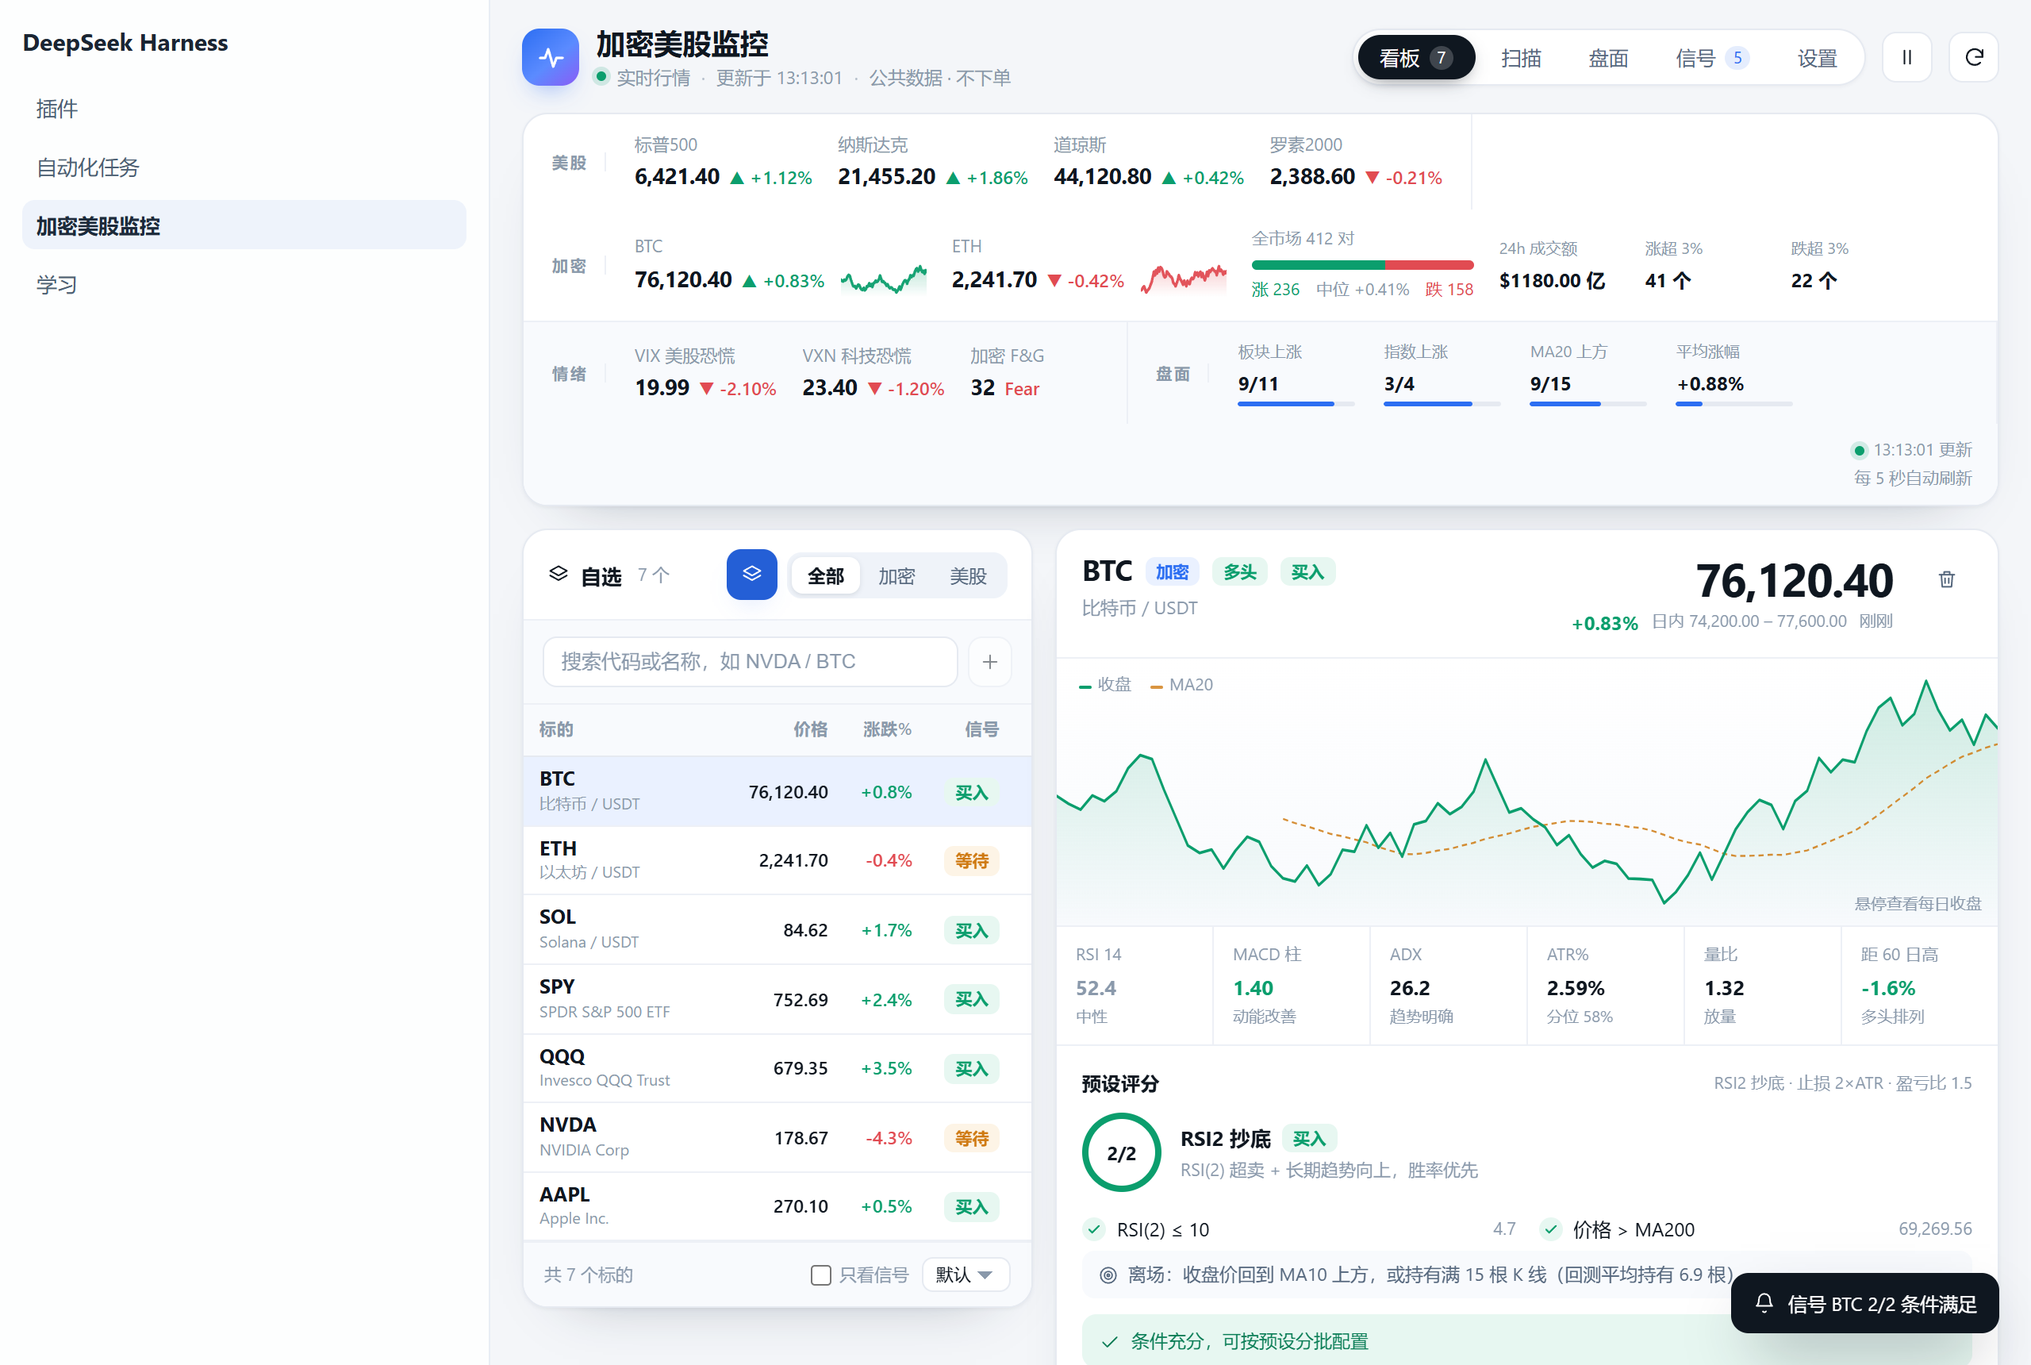
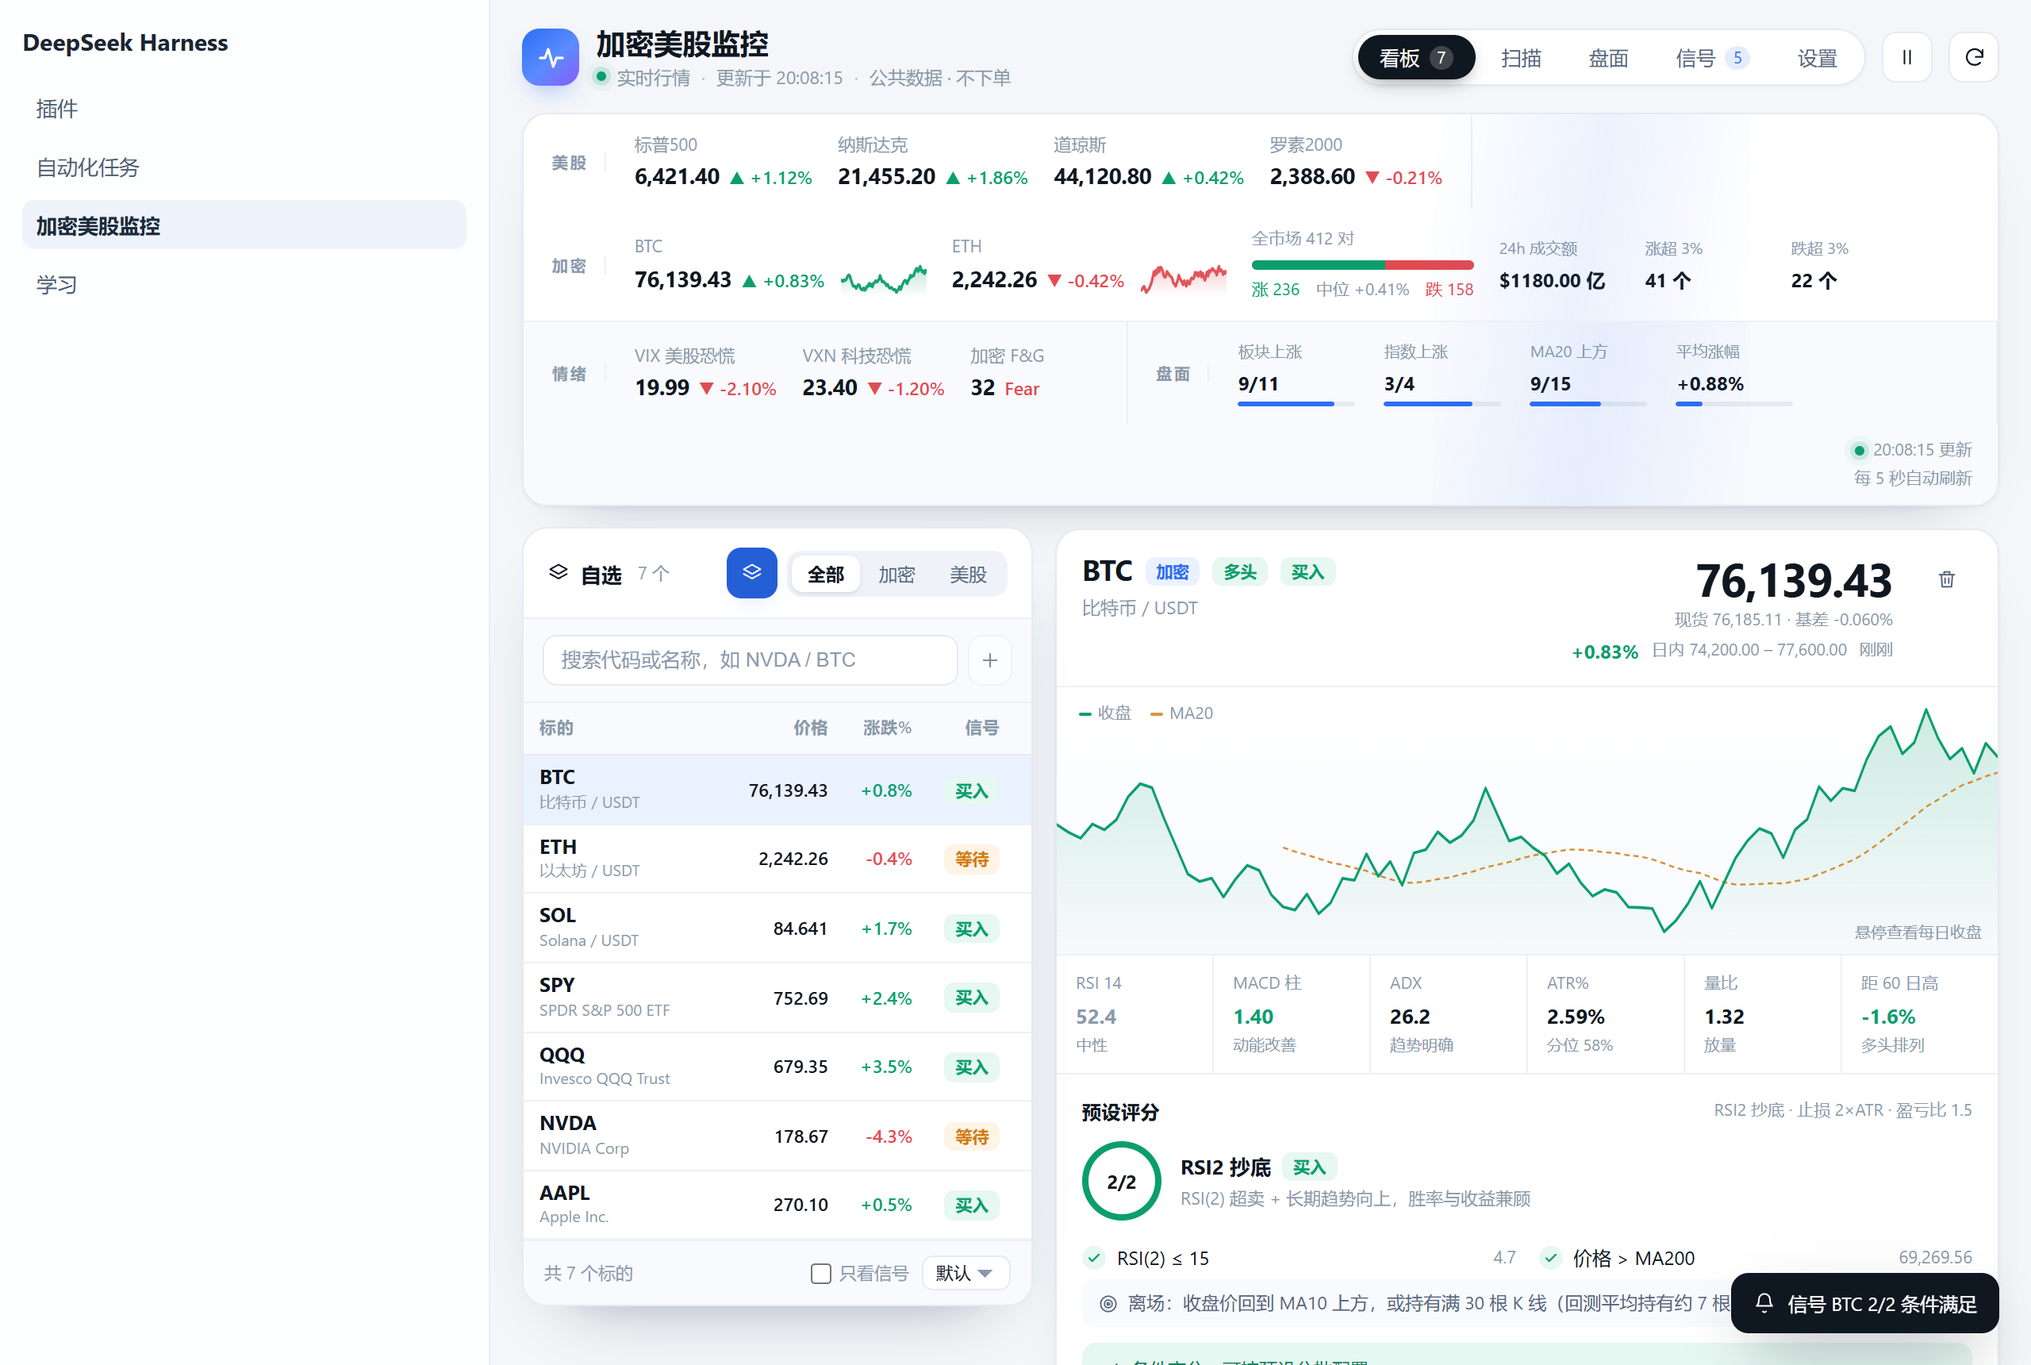
feat: 0.21.0 加密主显合约价并附现货价与基差，界面加价格闪动/脉冲/扫光动效

diff --git a/lib/client.js b/lib/client.js
@@ -919,6 +919,35 @@ window.__ModuleLoader__.load({
 			".mn-root[data-theme=dark] .mn-table tbody tr{background:var(--mn-card)}",
 			".mn-scan-warn{display:flex;align-items:center;gap:6px;margin:0 15px 10px;padding:6px 10px;border-radius:8px;background:var(--mn-warn-soft);color:#a05f0c;font-size:11px}",
 			".mn-exit-rule{display:flex;align-items:center;gap:6px;margin:2px 0 8px;padding:7px 10px;border-radius:8px;background:var(--mn-card-2);color:var(--mn-fg-2);font-size:11.5px;line-height:1.4}",
+			"/* ---------- 0.21 motion ---------- */",
+			"@keyframes mn-flash-up{0%{background:rgba(11,158,109,.26);box-shadow:inset 0 0 0 1px rgba(11,158,109,.4)}100%{background:transparent;box-shadow:inset 0 0 0 1px transparent}}",
+			"@keyframes mn-flash-down{0%{background:rgba(225,75,82,.26);box-shadow:inset 0 0 0 1px rgba(225,75,82,.4)}100%{background:transparent;box-shadow:inset 0 0 0 1px transparent}}",
+			"[data-flash=up]{animation:mn-flash-up .72s ease-out;border-radius:5px}",
+			"[data-flash=down]{animation:mn-flash-down .72s ease-out;border-radius:5px}",
+			".mn-wl-price{display:flex;flex-direction:column;align-items:flex-end;gap:1px;padding:1px 4px;margin:-1px -4px}",
+			".mn-wl-price b{font-weight:650;line-height:1.2}",
+			".mn-wl-spot{font-size:9.5px;font-weight:500;color:var(--mn-fg-3);letter-spacing:0;white-space:nowrap}",
+			".mn-price-spot{font-size:10.5px;color:var(--mn-fg-3);font-variant-numeric:tabular-nums}",
+			".mn-spark-line{animation:mn-draw 1.1s ease-out both}",
+			"@keyframes mn-draw{from{stroke-dasharray:1;stroke-dashoffset:1}to{stroke-dasharray:1;stroke-dashoffset:0}}",
+			".mn-dot{position:relative;color:var(--mn-up)}",
+			".mn-dot[data-state=warn]{color:var(--mn-warn)}",
+			".mn-dot[data-state=down]{color:var(--mn-down)}",
+			".mn-dot:after{content:\"\";position:absolute;left:50%;top:50%;width:6px;height:6px;margin:-3px 0 0 -3px;border-radius:50%;background:currentColor;opacity:0;animation:mn-ripple 2.6s ease-out infinite;pointer-events:none}",
+			"@keyframes mn-ripple{0%{transform:scale(1);opacity:.45}70%{transform:scale(3.4);opacity:0}100%{opacity:0}}",
+			".mn-card{transition:box-shadow .24s ease,transform .24s ease}",
+			".mn-card:hover{box-shadow:0 20px 44px -30px rgba(15,30,55,.55);transform:translateY(-1px)}",
+			".mn-tk-row{position:relative;overflow:hidden}",
+			".mn-tk-row:after{content:\"\";position:absolute;top:0;bottom:0;width:200px;left:-220px;pointer-events:none;background:linear-gradient(100deg,transparent,rgba(44,110,242,.09),transparent);animation:mn-sweep 9s linear infinite}",
+			"@keyframes mn-sweep{0%{transform:translateX(0)}100%{transform:translateX(1800px)}}",
+			".mn-heat-tile{transition:transform .18s ease,filter .18s ease}",
+			".mn-heat-tile:hover{transform:translateY(-2px) scale(1.015);filter:saturate(1.12)}",
+			".mn-score{transition:background .35s ease,transform .2s ease}",
+			".mn-score:hover{transform:scale(1.04)}",
+			".mn-chip[data-tone=buy]{animation:mn-chip-pulse 2.8s ease-in-out infinite}",
+			"@keyframes mn-chip-pulse{0%,100%{box-shadow:0 0 0 0 rgba(11,158,109,0)}50%{box-shadow:0 0 0 4px rgba(11,158,109,.14)}}",
+			".mn-loading{animation:mn-fade .4s ease both}",
+			"@media (prefers-reduced-motion:reduce){.mn-tk-row:after,.mn-dot:after,.mn-spark-line,.mn-chip[data-tone=buy]{animation:none!important}[data-flash=up],[data-flash=down]{animation:none!important}.mn-card{transition:none}}",
 		].join("\n");
 
 
@@ -931,6 +960,24 @@ window.__ModuleLoader__.load({
 			const useMemo = React.useMemo;
 			const useRef = React.useRef;
 			const useCallback = React.useCallback;
+
+			// 0.21: flash a price element whenever a poll brings a new value.
+			function usePriceFlash(value) {
+				const previous = useRef(null);
+				const [flash, setFlash] = useState("");
+				useEffect(() => {
+					const numeric = Number(value);
+					if (previous.current !== null && Number.isFinite(numeric) && numeric !== previous.current) {
+						setFlash(numeric > previous.current ? "up" : "down");
+						previous.current = numeric;
+						const timer = setTimeout(() => setFlash(""), 720);
+						return () => clearTimeout(timer);
+					}
+					previous.current = Number.isFinite(numeric) ? numeric : null;
+					return undefined;
+				}, [value]);
+				return flash;
+			}
 
 			function cx() {
 				const out = [];
@@ -1034,7 +1081,7 @@ window.__ModuleLoader__.load({
 							h("stop", { offset: "0%", stopColor: color, stopOpacity: "0.28" }),
 							h("stop", { offset: "100%", stopColor: color, stopOpacity: "0" }))),
 					h("path", { d: area, fill: "url(#" + idRef.current + ")", stroke: "none" }),
-					h("path", { d: line, fill: "none", stroke: color, strokeWidth: props.strokeWidth || 1.4, strokeLinejoin: "round", strokeLinecap: "round" })
+					h("path", { className: "mn-spark-line", d: line, fill: "none", stroke: color, strokeWidth: props.strokeWidth || 1.4, strokeLinejoin: "round", strokeLinecap: "round", pathLength: "1" })
 				);
 			}
 
@@ -1121,10 +1168,11 @@ window.__ModuleLoader__.load({
 
 			function TickerCell(props) {
 				const tone = changeTone(props.change);
+				const flash = usePriceFlash(props.raw);
 				return h("div", { className: "mn-tk", title: props.title || "" },
 					h("span", { className: "mn-tk-name" }, props.name),
 					h("span", { className: "mn-tk-line" },
-						h("b", { className: "mn-tk-price" }, props.price),
+						h("b", { className: "mn-tk-price", "data-flash": flash || undefined }, props.price),
 						Number.isFinite(Number(props.change))
 							? h("span", { className: "mn-tk-chg " + (tone === "up" ? "mn-up" : tone === "down" ? "mn-down" : "mn-flat") },
 								(tone === "up" ? "▲ " : tone === "down" ? "▼ " : "") + formatPct(props.change, 2))
@@ -1165,6 +1213,7 @@ window.__ModuleLoader__.load({
 									key: row.symbol,
 									name: row.name || row.symbol,
 									price: formatPrice(row.price),
+									raw: row.price,
 									change: row.changePct,
 									title: (row.name || row.symbol) + " · " + (row.aboveMa20 ? "MA20 上方" : "MA20 下方")
 								}))
@@ -1174,6 +1223,7 @@ window.__ModuleLoader__.load({
 							h(TickerCell, {
 								name: "BTC",
 								price: btc ? formatPrice(btc.price) : "--",
+								raw: btc ? btc.price : null,
 								change: btcChange,
 								spark: closesOf("crypto:BTCUSDT"),
 								title: "比特币 / USDT"
@@ -1181,6 +1231,7 @@ window.__ModuleLoader__.load({
 							h(TickerCell, {
 								name: "ETH",
 								price: eth ? formatPrice(eth.price) : "--",
+								raw: eth ? eth.price : null,
 								change: ethChange,
 								spark: closesOf("crypto:ETHUSDT"),
 								title: "以太坊 / USDT"
@@ -1243,6 +1294,7 @@ window.__ModuleLoader__.load({
 			function WatchRow(props) {
 				const row = props.row;
 				const tone = changeTone(row.change);
+				const flash = usePriceFlash(row.price);
 				return h("div", {
 					className: "mn-wl-row",
 					"data-active": props.active ? "true" : "false",
@@ -1271,7 +1323,11 @@ window.__ModuleLoader__.load({
 					props.spark && props.spark.length > 1
 						? h(Sparkline, { points: props.spark, className: "mn-wl-spark", width: 44, height: 18, tone: tone })
 						: null,
-					h("span", { className: "mn-wl-price" }, formatPrice(row.price)),
+					h("span", { className: "mn-wl-price", "data-flash": flash || undefined },
+						h("b", null, formatPrice(row.price)),
+						row.spotPrice && Number.isFinite(Number(row.spotPrice))
+							? h("small", { className: "mn-wl-spot", title: "现货价 · Binance" }, "现货 " + formatPrice(row.spotPrice))
+							: null),
 					h("span", { className: "mn-wl-chg " + (tone === "up" ? "mn-up" : tone === "down" ? "mn-down" : "mn-flat") }, formatPct(row.change, 2)),
 					h("button", {
 						type: "button",
@@ -1459,6 +1515,7 @@ window.__ModuleLoader__.load({
 				const [targetNote, setTargetNote] = useState("");
 				const [direction, setDirection] = useState("above");
 				const [showAll, setShowAll] = useState(false);
+				const priceFlash = usePriceFlash(row ? row.price : null);
 				const target = props.target || null;
 				const targetKey = target ? String(target.price) + "|" + String(target.direction) + "|" + String(target.stop) + "|" + String(target.note) : "";
 
@@ -1527,7 +1584,14 @@ window.__ModuleLoader__.load({
 								row.analysis ? h(Chip, { tone: signalTone(row.analysis.tone), title: row.analysis.passed + "/" + row.analysis.total + " 条件满足" }, row.analysis.label) : null),
 							h("div", { className: "mn-detail-name" }, row.sub || "")),
 						h("div", { className: "mn-price-box" },
-							h("b", { className: "mn-price" }, formatPrice(row.price)),
+							h("b", { className: "mn-price", "data-flash": priceFlash || undefined }, formatPrice(row.price)),
+							row.spotPrice && Number.isFinite(Number(row.spotPrice))
+								? h("span", { className: "mn-price-spot" },
+									"现货 " + formatPrice(row.spotPrice),
+									Number.isFinite(Number(row.price)) && Number(row.spotPrice) > 0
+										? " · 基差 " + formatPct((Number(row.price) / Number(row.spotPrice) - 1) * 100, 3)
+										: "")
+								: null,
 							h("span", { className: "mn-price-sub" },
 								h("b", { className: tone === "up" ? "mn-up" : tone === "down" ? "mn-down" : "mn-flat" }, formatPct(row.change, 2)),
 								row.dayLow && row.dayHigh
@@ -2768,14 +2832,18 @@ window.__ModuleLoader__.load({
 
 				const cryptoRows = useMemo(() => quotes.crypto.map((row) => {
 					const venue = row.binance && isNum(row.binance.price) ? row.binance : row.bitget && isNum(row.bitget.price) ? row.bitget : null;
+					// 0.21: the contract price is the headline; spot rides along for the basis.
+					const contractPrice = isNum(row.contractPrice) ? Number(row.contractPrice) : isNum(row.price) ? Number(row.price) : venue ? Number(venue.price) : null;
 					return {
 						key: "crypto:" + row.symbol,
 						kind: "crypto",
 						symbol: row.symbol,
 						title: displayCryptoSymbol(row.symbol),
 						sub: cryptoName(row.symbol) + " / USDT",
-						price: venue ? Number(venue.price) : null,
-						change: venue ? venue.changePct : null,
+						price: contractPrice,
+						spotPrice: isNum(row.spotPrice) ? Number(row.spotPrice) : null,
+						spotChangePct: isNum(row.spotChangePct) ? Number(row.spotChangePct) : null,
+						change: venue ? venue.changePct : isNum(row.contractChangePct) ? Number(row.contractChangePct) : null,
 						dayHigh: venue ? venue.highPrice : null,
 						dayLow: venue ? venue.lowPrice : null,
 						volume: venue ? venue.volume : null,

diff --git a/lib/index.js b/lib/index.js
@@ -12,6 +12,9 @@ const MAX_STATE_BODY = 64 * 1024;
 const BINANCE_TICKERS = "https://data-api.binance.vision/api/v3/ticker/24hr";
 const BINANCE_KLINES = "https://data-api.binance.vision/api/v3/klines";
 const BITGET_TICKERS = "https://api.bitget.com/api/v3/market/tickers";
+// USDT-M perpetuals (contract) tickers. Binance futures is geo-blocked here, so
+// Bitget mix is the contract reference while Binance spot stays the spot reference.
+const BITGET_MIX_TICKERS = "https://api.bitget.com/api/v2/mix/market/tickers";
 const YAHOO_CHART = "https://query1.finance.yahoo.com/v8/finance/chart/";
 const YAHOO_SEARCH = "https://query1.finance.yahoo.com/v1/finance/search";
 const USER_AGENT = "Mozilla/5.0";
@@ -549,6 +552,33 @@ function normalizeBitgetRow(row) {
 	};
 }
 
+function normalizeBitgetMixRow(row) {
+	const change = numberOrNull(row.change24h);
+	return {
+		price: numberOrNull(row.lastPr),
+		changePct: change === null ? null : round(change * 100, 3),
+		highPrice: numberOrNull(row.high24h),
+		lowPrice: numberOrNull(row.low24h),
+		volume: numberOrNull(row.quoteVolume),
+		timestamp: numberOrNull(row.ts) ?? Date.now()
+	};
+}
+
+function fetchBitgetMixTickers() {
+	return cached("bitget:mix", TTL.bitgetTicker, () => limitRequest(async () => {
+		const url = new URL(BITGET_MIX_TICKERS);
+		url.searchParams.set("productType", "USDT-FUTURES");
+		const payload = await getJson(url);
+		const rows = Array.isArray(payload?.data) ? payload.data : [];
+		const map = new Map();
+		for (const row of rows) {
+			if (row && typeof row.symbol === "string") map.set(row.symbol, normalizeBitgetMixRow(row));
+		}
+		if (map.size === 0) throw new Error("bitget-mix-empty");
+		return map;
+	}));
+}
+
 async function requestBinanceQuotes(symbols) {
 	const url = new URL(BINANCE_TICKERS);
 	url.searchParams.set("symbols", JSON.stringify(symbols));
@@ -1018,21 +1048,32 @@ async function collectCryptoBars(symbols, limit) {
 async function collectQuotes(symbols, stocks, config) {
 	const trendSymbols = symbols.slice(0, MAX_TREND_SYMBOLS);
 	const limit = barsLimit(config);
-	const [binance, bitget, stockRows, bars] = await Promise.all([
+	const [binance, bitget, contract, stockRows, bars] = await Promise.all([
 		collectBinanceQuotes(symbols),
 		collectBitgetQuotes(symbols),
+		fetchBitgetMixTickers().catch(() => new Map()),
 		collectStockQuotes(stocks, config),
 		collectCryptoBars(trendSymbols, limit)
 	]);
 	const quotes = symbols.map((symbol) => {
 		const binanceQuote = binance.get(symbol) ?? null;
 		const bitgetQuote = bitget.get(symbol) ?? null;
+		const spotQuote = binanceQuote ?? bitgetQuote;
+		const contractQuote = contract.get(symbol) ?? null;
 		const barsForSymbol = bars.map.get(symbol) ?? null;
-		const price = binanceQuote?.price ?? bitgetQuote?.price ?? null;
+		// Contract price is the headline (that is what a perp trader watches);
+		// spot stays alongside so the basis is visible.
+		const price = contractQuote?.price ?? spotQuote?.price ?? null;
 		const ta = buildTechnical(barsForSymbol, config, price);
 		const change7d = barsForSymbol ? relativeChange(price, barsForSymbol.closes, 8) : null;
 		return {
 			symbol,
+			price,
+			priceSource: contractQuote ? "bitget-mix" : spotQuote ? "spot" : null,
+			contractPrice: contractQuote?.price ?? null,
+			contractChangePct: contractQuote?.changePct ?? null,
+			spotPrice: spotQuote?.price ?? null,
+			spotChangePct: spotQuote?.changePct ?? null,
 			binance: binanceQuote,
 			bitget: bitgetQuote,
 			trend: ta ? legacyTrend(ta, barsForSymbol, change7d) : null,
@@ -1750,7 +1791,7 @@ function scanRoute() {
 }
 
 // Test hook: lets a node script exercise the scanners without the HTTP layer.
-export const __scanForTests = { scanCryptoRows: scanCryptoRows, scanStockRows: scanStockRows };
+export const __scanForTests = { scanCryptoRows: scanCryptoRows, scanStockRows: scanStockRows, collectQuotes: collectQuotes };
 
 function quotesRoute() {
 	return {

diff --git a/README.md b/README.md
@@ -4,6 +4,23 @@
 
 > 界面截图见 `docs/panel.png`、`docs/scan.png`、`docs/table.png`、`docs/mood.png`（重启 DSH 后在左侧图标列打开）。
 
+## 0.21 合约价 / 现货价与动效
+
+## 价格口径
+
+- **主价格 = 合约价**：Bitget USDT-M 永续（`/api/v2/mix/market/tickers`）。Binance 合约接口在本机被地区限制，所以合约参考用 Bitget。
+- **副价格 = 现货价**：Binance 现货（`data-api.binance.vision`）；Bitget 现货作兜底。
+- 自选行：主价格下方一行小字 `现货 76,185.11`；详情页显示 `现货 … · 基差 -0.060%`。
+- 接口返回新增 `contractPrice` / `contractChangePct` / `spotPrice` / `spotChangePct` / `priceSource`，`price` 字段现在等于合约价。
+- K 线与技术指标仍用 Binance 现货日线计算（两者基差通常在 0.1% 以内），信号不受影响。
+
+## 动效
+
+- 价格变动时数字底色闪一下（涨绿跌红），观察 5 秒轮询的变化更直观。
+- 状态圆点脉冲扩散、迷你走势描线动画、顶部行情条缓慢扫光。
+- 卡片悬停轻微上浮，信号「买入」标签呼吸式高亮。
+- 全部动效遵守 `prefers-reduced-motion`，系统关闭动画时自动停用。
+
 ## 0.20 默认信号：RSI2 抄底
 
 默认卖掉「综合」那套趋势信号，换成均值回归的 RSI2 抄底，规则只有两条：
@@ -56,7 +73,7 @@
 2. 通过 DSH 的插件管理或配置，以本地 `link` 方式加载该目录。
 3. 重启 DSH Desktop，左侧图标列（插件 / 浏览器 / 学习那一列）会出现「加密美股监控」图标；点击后在中央面板打开。
 
-当前版本为 **0.20.0**。界面已完整重构（顶部大盘行情条 + 看板/扫描/盘面/信号/设置五个页签），默认信号是胜率与收益兼顾的「RSI2 抄底」（72.4% 胜率），重启 DSH 后即可看到。
+当前版本为 **0.21.0**。加密价格主显合约价（Bitget USDT-M 永续），同一行小字附现货价（Binance 现货）与基差；界面加入价格跳动、脉冲、扫光等动效。
 
 包名与插件 ID：`dsh-crypto-us-stock-monitor`。`package.json` 中的 `dsh.bundle.patch` 指向 `cordis.patch.yml`。
 

diff --git a/AGENTS.md b/AGENTS.md
@@ -24,6 +24,7 @@ curl -s "$DSH_BASE_URL/plugins/dsh-crypto-us-stock-monitor/api/search?q=nvda"
 # 返回 { closes, times }，times 为毫秒时间戳
 curl -s "$DSH_BASE_URL/plugins/dsh-crypto-us-stock-monitor/api/series?symbols=BTCUSDT&stocks=NVDA&limit=80"
 
+# 加密报价的主价格 price 是合约价（Bitget USDT-M），spotPrice 是 Binance 现货，合约与现货基差可据此算
 # ta 里除常规字段外还带 rsi2（2 周期 RSI）与 ma200（200 日均线），默认预设「RSI2 抄底」依赖这两个字段（RSI(2) ≤ 15 且价格 > MA200 即买入）
 # 全市场扫描（加密按成交额取前 120 对，美股 84 只活跃标的；结果缓存 5 分钟）
 curl -s "$DSH_BASE_URL/plugins/dsh-crypto-us-stock-monitor/api/scan?crypto=120&stocks=60"
